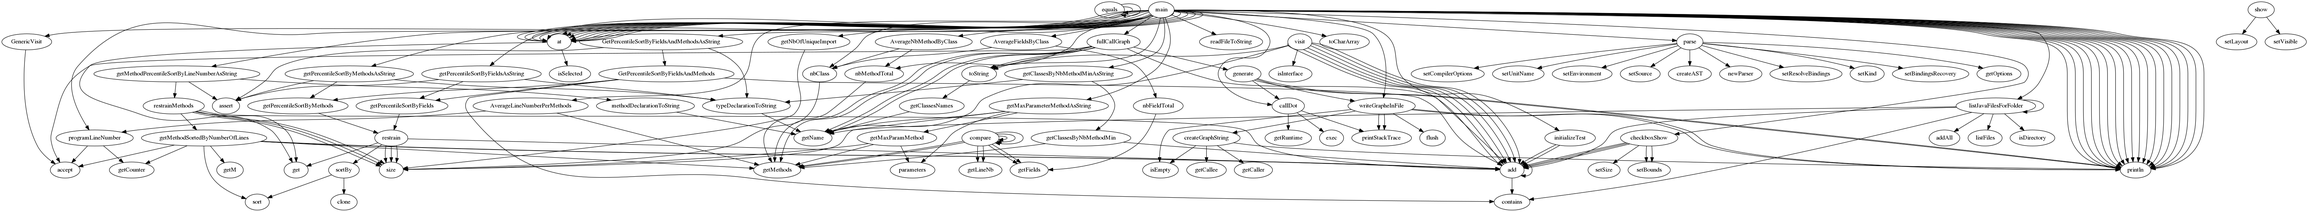
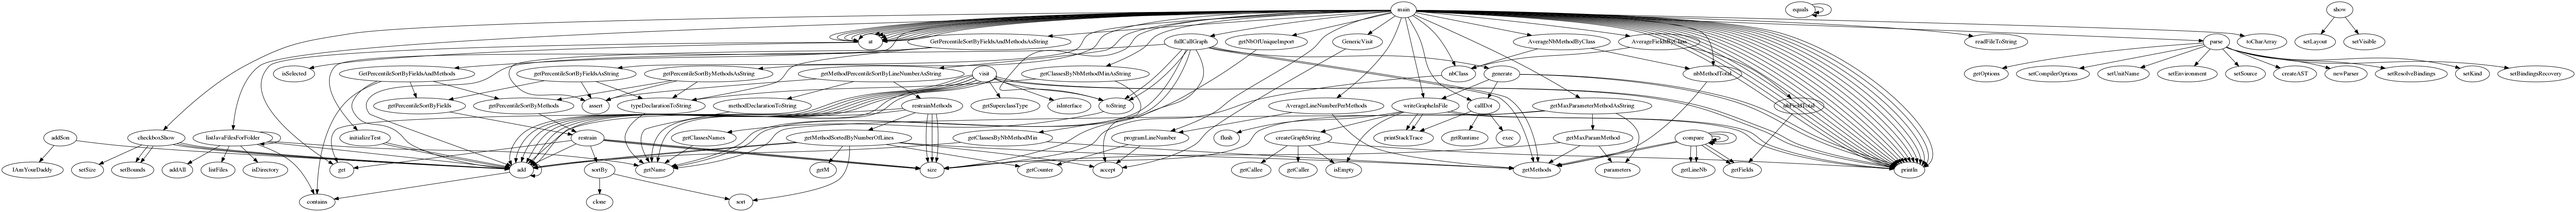
add start callgraph generation by package, and by class. Next is add methods

diff --git a/tp3/coupling/src/main/Main.java b/tp3/coupling/src/main/Main.java
@@ -1,0 +1,102 @@
+package main;
+
+
+import java.io.File;
+import java.io.IOException;
+import java.util.ArrayList;
+import java.util.Map;
+
+import org.apache.commons.io.FileUtils;
+/*import org.eclipse.core.internal.localstore.Bucket.Visitor;
+	import org.eclipse.core.internal.utils.FileUtil;
+	import org.eclipse.core.resources.IProject;
+	import org.eclipse.core.resources.IWorkspaceRoot;
+	import org.eclipse.core.resources.ResourcesPlugin;
+	import org.eclipse.core.runtime.CoreException;
+	import org.eclipse.jdt.core.ICompilationUnit;*/
+import org.eclipse.jdt.core.JavaCore;
+import org.eclipse.jdt.core.dom.AST;
+import org.eclipse.jdt.core.dom.ASTParser;
+import org.eclipse.jdt.core.dom.ASTVisitor;
+import org.eclipse.jdt.core.dom.CompilationUnit;
+
+import logic.CallGraphVisitor;
+
+/*import org.eclipse.jdt.core.dom.MethodDeclaration;
+	import org.eclipse.jdt.core.dom.MethodInvocation;
+	import org.eclipse.jdt.core.dom.VariableDeclarationFragment;*/
+import org.eclipse.jdt.core.dom.*;
+
+
+public class Main {
+
+
+	public static String projectPath = "./";
+	public static String projectSourcePath = projectPath + "src";
+	public static String jrePath = "/usr/lib/jvm/java-8-openjdk-amd64/jre";
+
+	public static void main(String[] args) throws IOException {
+	// read java files
+		final File folder = new File(projectSourcePath);
+		ArrayList<File> javaFiles = listJavaFilesForFolder(folder);
+
+		
+		
+		CallGraphVisitor visitor=new CallGraphVisitor();
+		
+		for (File fileEntry : javaFiles) {
+			String content = FileUtils.readFileToString(fileEntry);
+			// System.out.println(content);
+			
+			CompilationUnit parse = parse(content.toCharArray());
+			GenericVisit(parse, visitor);
+		}
+		
+		System.out.println(visitor);
+
+	}
+
+	// create AST
+	private static CompilationUnit parse(char[] classSource) {
+		ASTParser parser = ASTParser.newParser(AST.JLS4); // java +1.6
+		parser.setResolveBindings(true);
+		parser.setKind(ASTParser.K_COMPILATION_UNIT);
+ 
+		parser.setBindingsRecovery(true);
+ 
+		@SuppressWarnings("rawtypes")
+		Map options = JavaCore.getOptions();
+		parser.setCompilerOptions(options);
+ 
+		parser.setUnitName("");
+ 
+		String[] sources = { projectSourcePath }; 
+		String[] classpath = {jrePath};
+ 
+		parser.setEnvironment(classpath, sources, new String[] { "UTF-8"}, true);
+		parser.setSource(classSource);
+		
+		return (CompilationUnit) parser.createAST(null); // create and parse
+	}
+
+	
+	// read all java files from specific folder
+	public static ArrayList<File> listJavaFilesForFolder(final File folder) {
+		ArrayList<File> javaFiles = new ArrayList<File>();
+		for (File fileEntry : folder.listFiles()) {
+			if (fileEntry.isDirectory()) {
+				javaFiles.addAll(listJavaFilesForFolder(fileEntry));
+			} else if (fileEntry.getName().contains(".java")) {
+				// System.out.println(fileEntry.getName());
+				javaFiles.add(fileEntry);
+			}
+		}
+
+		return javaFiles;
+	}
+
+	public static void GenericVisit(CompilationUnit parse,ASTVisitor visitor) {
+		parse.accept(visitor);
+	}
+}
+

diff --git a/tp3/coupling/src/logic/ClassGraph.java b/tp3/coupling/src/logic/ClassGraph.java
@@ -1,0 +1,66 @@
+package logic;
+
+import java.util.HashMap;
+
+import org.eclipse.jdt.core.dom.TypeDeclaration;
+
+public class ClassGraph {
+	HashMap<String,NodeClass> graph;
+	
+	public ClassGraph(){
+		graph=new HashMap<>();
+	}
+	
+	public NodeClass searchNodeClass(String className) {
+		return graph.get(className);
+	}
+	
+	public void addTypeDeclaration(TypeDeclaration td) {
+		
+		NodeClass res=searchNodeClass(td.getName().toString());
+		if(res==null) {//class doesn't exists yet.
+			String superName;
+			if(td.getSuperclassType()==null) {
+				superName="Object";
+			}	
+			else {
+				superName=td.getSuperclassType().toString();
+			}	
+			
+			NodeClass superClass=searchNodeClass(superName);
+			
+			if(superClass==null) {//SuperClass doesn't exists either so we add a shallow version
+				superClass=new NodeClass(superName);
+				graph.put(superName,superClass);
+			}//Else it exists, whether it's shallow or not doesn't matter.
+			graph.put(td.getName().toString(), new NodeClass(superClass,td));
+		}
+		else {
+			if(res.isShallow()) {
+				String superName=td.getSuperclassType().toString();
+				NodeClass superClass=searchNodeClass(superName);
+				
+				if(superClass==null) {//SuperClass doesn't exists either so we add a shallow version
+					superClass=new NodeClass(superName);
+					graph.put(superName,superClass);
+				}//Else it exists, whether it's shallow or not doesn't matter.
+				
+				//And we replace it
+				graph.put(td.getName().toString(), new NodeClass(superClass,td));
+				
+			}
+			else {
+				System.out.println("doublon");
+			}
+		}
+	}
+	
+	public String toString() {
+		String acc="";
+		for(NodeClass nc: graph.values()){
+			acc+=nc.toString();
+			acc+='\n';
+		}
+		return acc;
+	}
+}

diff --git a/tp3/coupling/src/logic/NodeClass.java b/tp3/coupling/src/logic/NodeClass.java
@@ -1,0 +1,75 @@
+package logic;
+
+import java.util.ArrayList;
+
+import org.eclipse.jdt.core.dom.TypeDeclaration;
+
+
+
+//Minimal tree to work with for this task.
+
+public class NodeClass{
+	NodeClass daddy;
+	ArrayList<NodeClass> sons;
+	String name;
+	TypeDeclaration data;
+	
+	public NodeClass getDaddy() {
+		return daddy;
+	}
+
+	public TypeDeclaration getData() {
+		return data;
+	}
+	
+	public NodeClass(String myName){//For classes we might not know (yet or at all)
+		this.daddy=null;
+		this.sons=new ArrayList<>();
+		this.data=null;
+		this.name=myName;
+	}
+	
+	public NodeClass(NodeClass daddy, TypeDeclaration data){
+		this.daddy=daddy;
+		this.sons=new ArrayList<>();
+		this.name=data.getName().toString();
+		this.data=data;
+	}
+	
+	public boolean isRoot() {
+		return ((data!=null) && (daddy==null));
+	}
+	
+	public void addSon(NodeClass s) {
+		s.IAmYourDaddy(this);
+		sons.add(s);
+	}
+	
+	public void IAmYourDaddy(NodeClass d) {
+		daddy=d;
+	}
+	
+	public void GotMyID(TypeDeclaration ID,NodeClass superType) {
+		this.daddy=superType;
+		this.data=ID;
+	}
+	
+	public boolean isShallow() {
+		return data==null;
+	}
+	
+	@Override
+	public String toString() {
+		if(this.isShallow()) {
+			return this.name+" is a shallow class.";
+		}
+		else{
+			return this.name+" is a parsed class, with "+this.daddy.getName()+" as a daddy.";
+		}
+	}
+	
+	public String getName() {
+		return this.name;
+	}
+		
+}

diff --git a/tp3/coupling/src/logic/CallGraphVisitor.java b/tp3/coupling/src/logic/CallGraphVisitor.java
@@ -1,0 +1,50 @@
+package logic;
+
+import java.util.HashMap;
+
+import org.eclipse.jdt.core.dom.ASTVisitor;
+import org.eclipse.jdt.core.dom.PackageDeclaration;
+import org.eclipse.jdt.core.dom.TypeDeclaration;
+
+public class CallGraphVisitor extends ASTVisitor {
+	private HashMap<String,ClassGraph> packs=new HashMap<>();
+	private ClassGraph currentPackage;
+	
+	public CallGraphVisitor() {
+		// TODO Auto-generated constructor stub
+		
+	}
+
+	public CallGraphVisitor(boolean visitDocTags) {
+		super(visitDocTags);
+		// TODO Auto-generated constructor stub
+	}
+	
+	@Override
+	public boolean visit(TypeDeclaration node) {
+		currentPackage.addTypeDeclaration(node);
+		return true;
+	}
+	
+	@Override
+	public boolean visit(PackageDeclaration node) {
+		this.currentPackage=packs.get(node.getName().toString());
+		if(this.currentPackage==null) {//if we don't find it, we create a new one.
+			this.currentPackage=new ClassGraph();
+		}
+		packs.put(node.getName().toString(),this.currentPackage);
+		
+		return true;
+	}
+	
+	@Override
+	public String toString() {
+		String acc="";
+		for(String cg: packs.keySet()){
+			acc+=cg+" contains :\n";
+			acc+=packs.get(cg).toString();
+			acc+='\n';
+		}
+		return acc;
+	}
+}

diff --git a/tpnoté/src/SourceAnalyser/CodeStatistiqueVisitor.java b/tpnoté/src/SourceAnalyser/CodeStatistiqueVisitor.java
@@ -24,6 +24,7 @@ public class CodeStatistiqueVisitor extends ASTVisitor{
 		this.imports = new HashSet<>();
 	}
 	
+	
 	//Needed visitors
 	@Override//classes déclarations
 	public boolean visit(TypeDeclaration node) {
@@ -33,6 +34,8 @@ public class CodeStatistiqueVisitor extends ASTVisitor{
 		else {
 			classAST.add(node);
 		}
+
+	
 		return true;//We still have to parse the classes, in case we have inner classes/interfaces...
 	}
 	

diff --git a/tpnoté/src/SourceAnalyser/MethodInvocationVisitor.java b/tpnoté/src/SourceAnalyser/MethodInvocationVisitor.java
@@ -6,9 +6,11 @@ import java.util.List;
 import org.eclipse.jdt.core.dom.ASTVisitor;
 import org.eclipse.jdt.core.dom.MethodInvocation;
 import org.eclipse.jdt.core.dom.SuperMethodInvocation;
+import org.eclipse.jdt.core.dom.TypeDeclaration;
 
 public class MethodInvocationVisitor extends ASTVisitor {
 	List<MethodInvocation> methods = new ArrayList<MethodInvocation>();
+
 	
 	@Override
 	public boolean visit(MethodInvocation node) {

diff --git a/tpnoté/src/SourceAnalyser/Parser.java b/tpnoté/src/SourceAnalyser/Parser.java
@@ -172,7 +172,7 @@ public class Parser {
 	}
 	
 	// navigate method invocations inside method
-		public static void printMethodInvocationInfo(CompilationUnit parse, CallGraphGenerator cgg) {
+		public static void printcationInfo(CompilationUnit parse, CallGraphGenerator cgg) {
 
 			MethodDeclarationVisitor visitor1 = new MethodDeclarationVisitor();
 			parse.accept(visitor1);

diff --git a/tp3/coupling/src/logic/Test.java b/tp3/coupling/src/logic/Test.java
@@ -1,0 +1,7 @@
+package logic;
+
+public class Test extends NodeClass {
+	public Test(){
+		super("null");
+	}
+}
